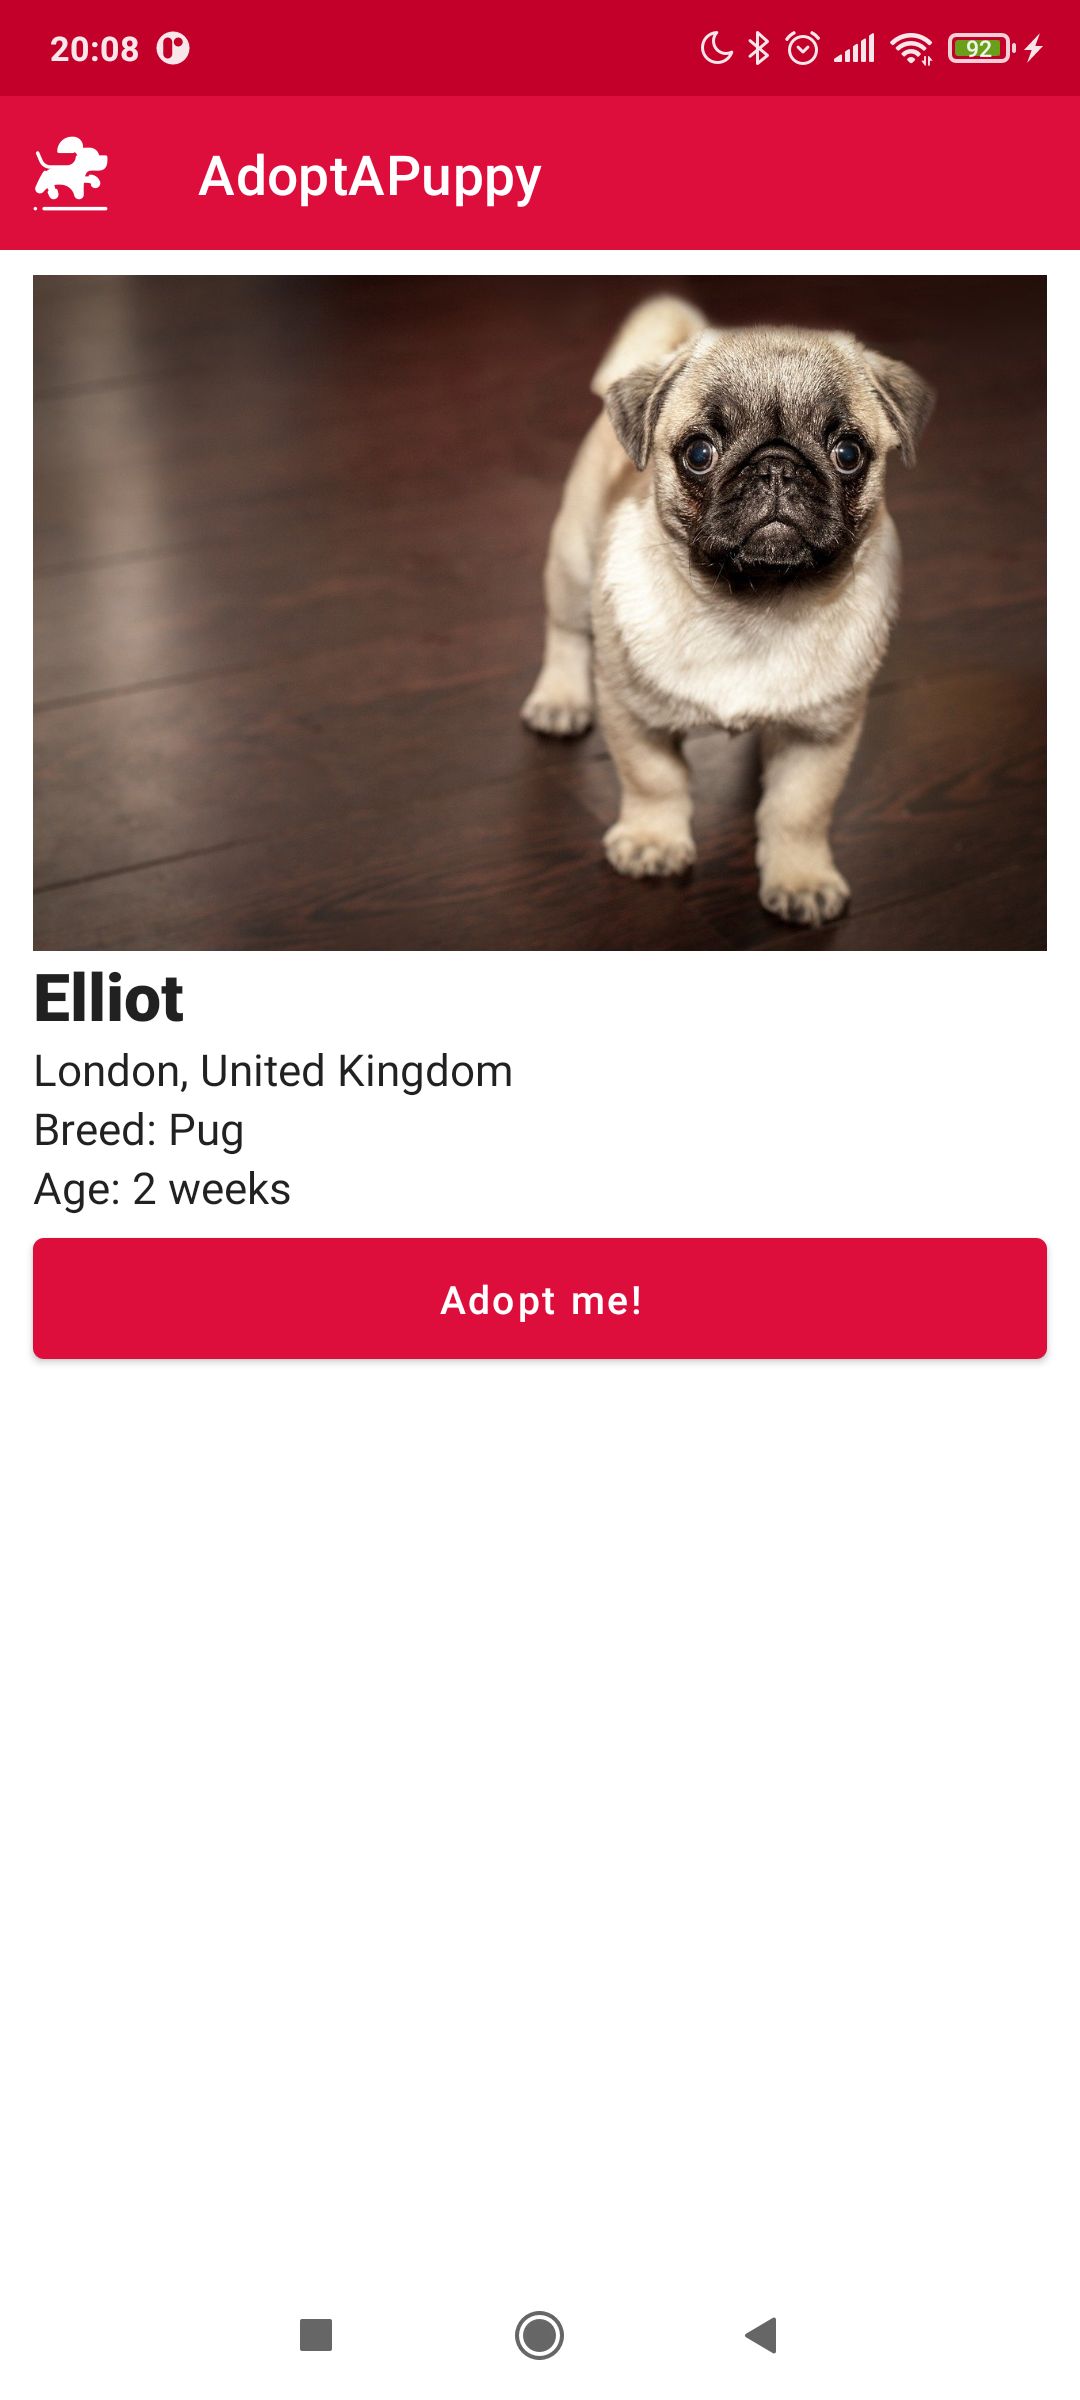
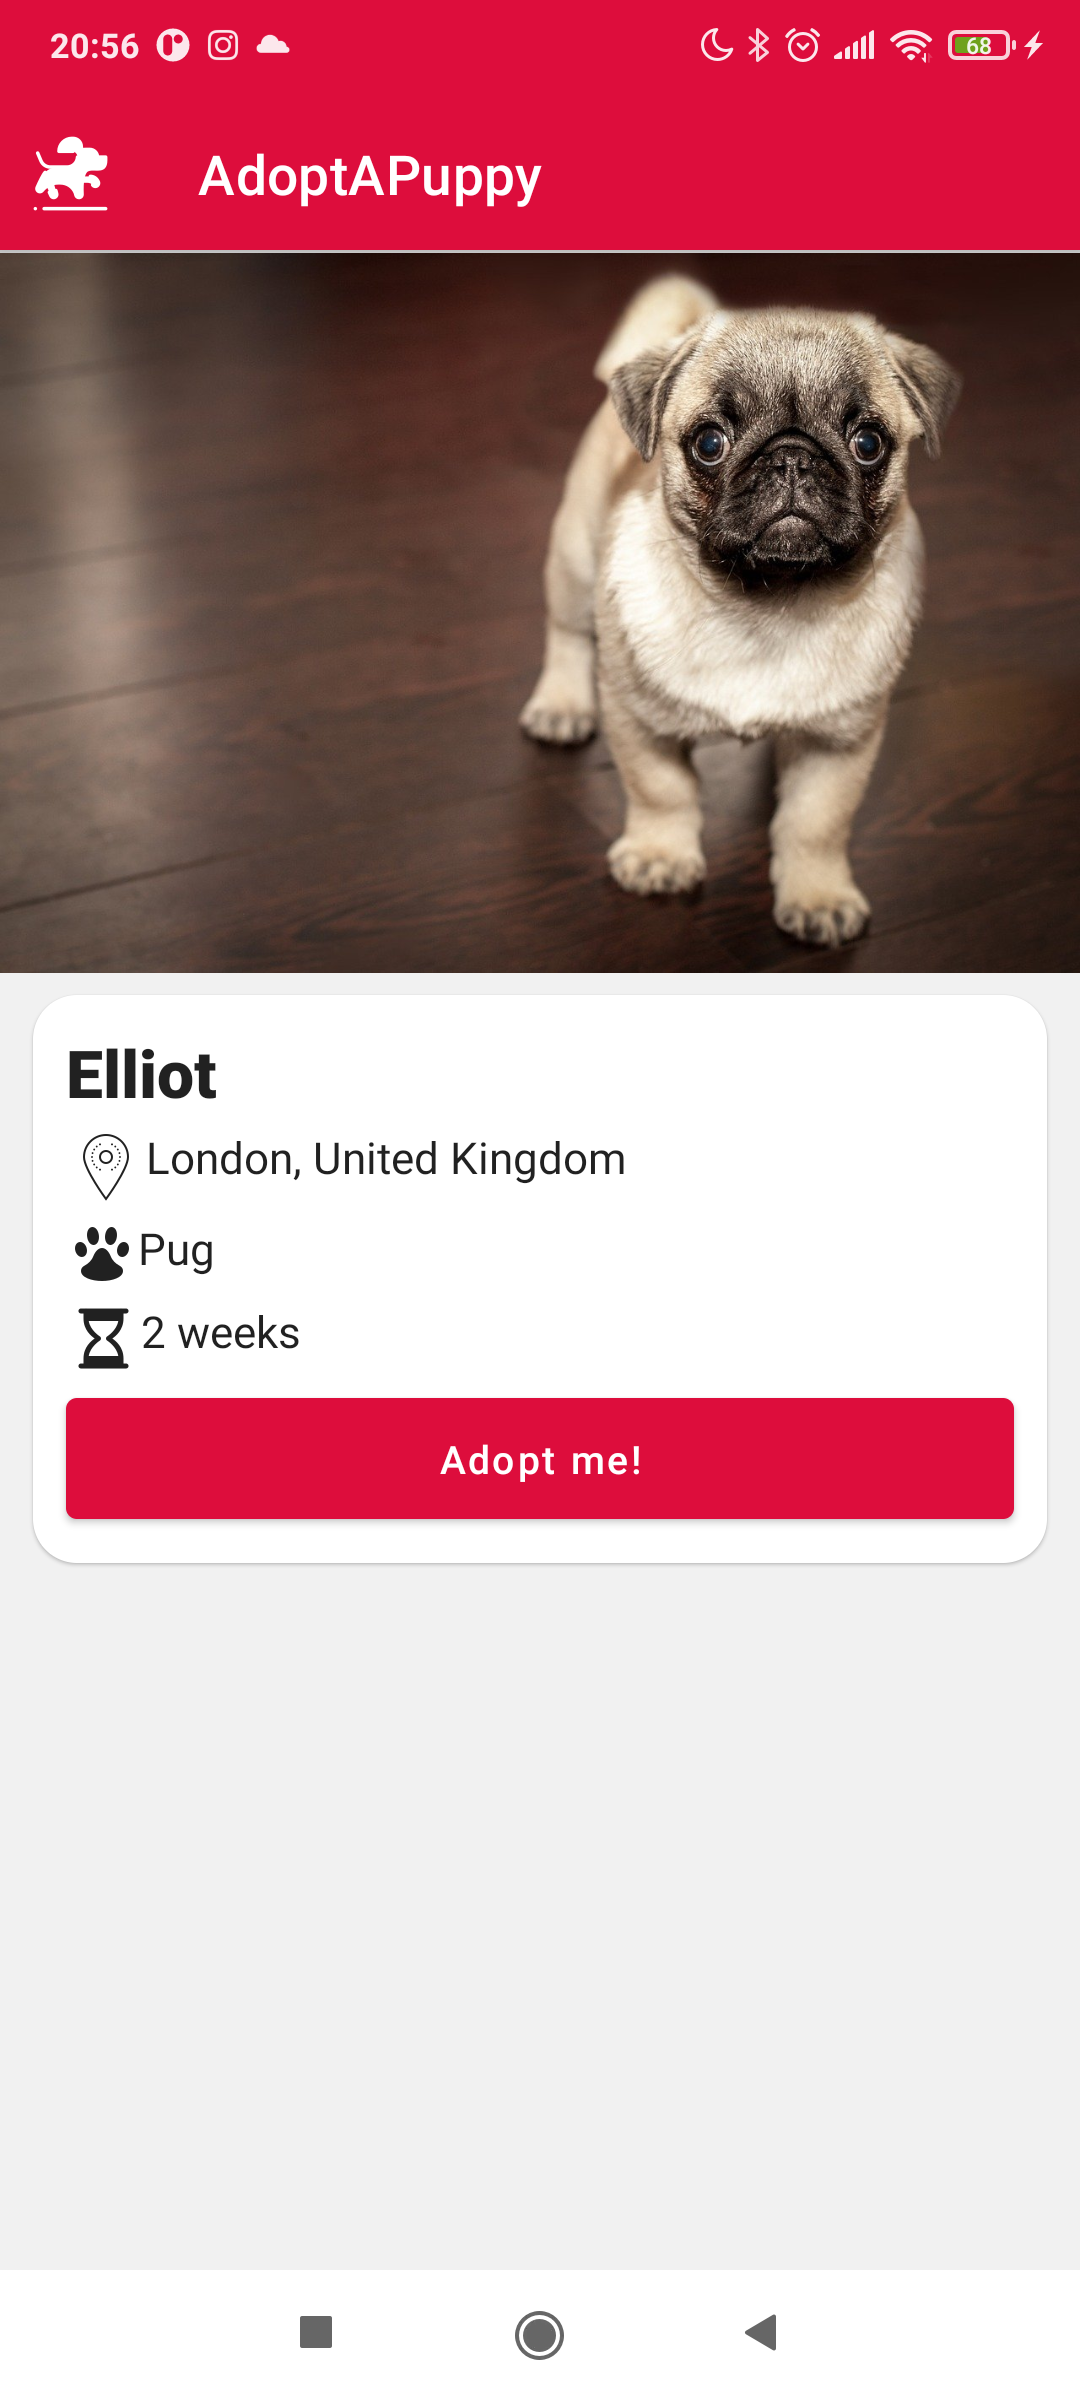
trying to fix some night mode colors, updating screenshots

diff --git a/app/src/main/java/com/example/androiddevchallenge/ui/screens/detail/DetailScreen.kt b/app/src/main/java/com/example/androiddevchallenge/ui/screens/detail/DetailScreen.kt
@@ -27,6 +27,7 @@ import androidx.compose.foundation.shape.RoundedCornerShape
 import androidx.compose.material.Button
 import androidx.compose.material.Card
 import androidx.compose.material.Icon
+import androidx.compose.material.MaterialTheme
 import androidx.compose.material.Text
 import androidx.compose.runtime.Composable
 import androidx.compose.runtime.LaunchedEffect
@@ -36,14 +37,17 @@ import androidx.compose.ui.Modifier
 import androidx.compose.ui.res.painterResource
 import androidx.compose.ui.text.TextStyle
 import androidx.compose.ui.text.font.FontWeight
+import androidx.compose.ui.tooling.preview.Preview
 import androidx.compose.ui.unit.dp
 import androidx.compose.ui.unit.sp
 import androidx.lifecycle.viewmodel.compose.viewModel
 import androidx.navigation.NavController
+import androidx.navigation.compose.rememberNavController
 import com.example.androiddevchallenge.R
 import com.example.androiddevchallenge.model.Puppy
 import com.example.androiddevchallenge.ui.composable.Error
 import com.example.androiddevchallenge.ui.composable.Loading
+import com.example.androiddevchallenge.ui.theme.PuppyTheme
 
 @Composable
 fun DetailScreen(navController: NavController, puppyId: Int, detailViewModel: DetailViewModel = viewModel()) {
@@ -85,21 +89,24 @@ fun PuppyDetail(puppy: Puppy) {
                 Row {
                     Icon(
                         painter = painterResource(id = R.drawable.location),
-                        contentDescription = "Location"
+                        contentDescription = "Location",
+                        tint = MaterialTheme.colors.onSurface
                     )
                     Text(puppy.location)
                 }
                 Row(modifier = Modifier.padding(vertical = 4.dp)) {
                     Icon(
                         painter = painterResource(id = R.drawable.cat_footprint),
-                        contentDescription = "Breed"
+                        contentDescription = "Breed",
+                        tint = MaterialTheme.colors.onSurface
                     )
                     Text(puppy.breed)
                 }
                 Row {
                     Icon(
                         painter = painterResource(id = R.drawable.sand_clock),
-                        contentDescription = "Age"
+                        contentDescription = "Age",
+                        tint = MaterialTheme.colors.onSurface
                     )
                     Text(puppy.age)
                 }
@@ -115,5 +122,23 @@ fun PuppyDetail(puppy: Puppy) {
                 )
             }
         }
+    }
+}
+
+@Preview
+@Composable
+fun DetailScreen() {
+    PuppyTheme {
+        val navController = rememberNavController()
+        DetailScreen(navController = navController, puppyId = 1)
+    }
+}
+
+@Preview
+@Composable
+fun DetailScreenDark() {
+    PuppyTheme(darkTheme = true) {
+        val navController = rememberNavController()
+        DetailScreen(navController = navController, puppyId = 1)
     }
 }

diff --git a/app/src/main/java/com/example/androiddevchallenge/ui/theme/Theme.kt b/app/src/main/java/com/example/androiddevchallenge/ui/theme/Theme.kt
@@ -25,7 +25,7 @@ import androidx.compose.ui.graphics.Color
 private val DarkColorPalette = darkColors(
     primary = Red300,
     primaryVariant = Red700,
-    onPrimary = Color.Black,
+    onPrimary = Color.White,
     onSurface = Color.White,
     secondary = Red300,
     secondaryVariant = Red700,
@@ -54,7 +54,7 @@ private val LightColorPalette = lightColors(
 )
 
 @Composable
-fun PuppyTheme(darkTheme: Boolean = isSystemInDarkTheme(), content: @Composable() () -> Unit) {
+fun PuppyTheme(darkTheme: Boolean = isSystemInDarkTheme(), content: @Composable () -> Unit) {
     val colors = if (darkTheme) {
         DarkColorPalette
     } else {

diff --git a/app/src/main/java/com/example/androiddevchallenge/ui/composable/DogListItem.kt b/app/src/main/java/com/example/androiddevchallenge/ui/composable/DogListItem.kt
@@ -31,7 +31,6 @@ import androidx.compose.runtime.Composable
 import androidx.compose.ui.Alignment
 import androidx.compose.ui.Modifier
 import androidx.compose.ui.draw.clip
-import androidx.compose.ui.graphics.Color
 import androidx.compose.ui.layout.ContentScale
 import androidx.compose.ui.res.painterResource
 import androidx.compose.ui.text.font.FontWeight
